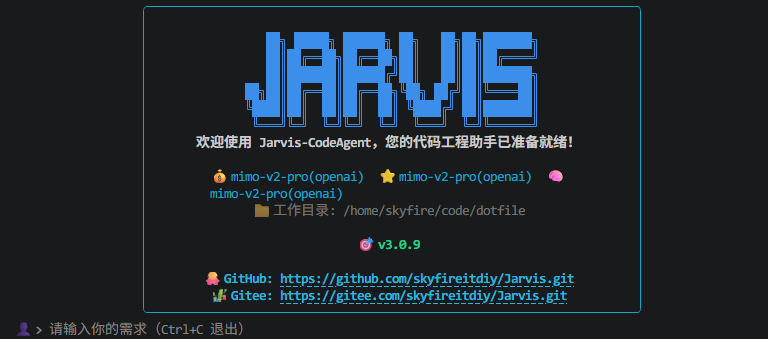
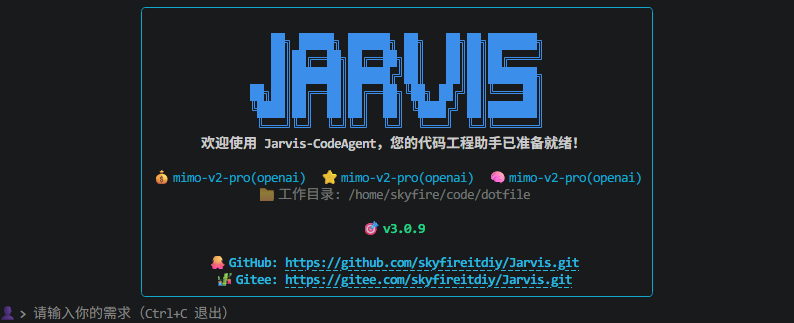
[Jarvis Code Agent提交] docs(landing): 移除过时的示例并更新截图
详细描述：从文档落地页中删除了用户输入示例部分，因为该示例已过时；同时更新了CLI截图以匹配最新界面。

Changed region(s): [[0.0, 0.0, 0.8438, 0.9907], [0.25, 0.0929, 0.75, 0.4644], [0.4375, 0.6811, 0.5625, 0.743]]

diff --git a/docs/landing/index.html b/docs/landing/index.html
@@ -841,15 +841,6 @@
               />
             </div>
             <div class="tl"><br /></div>
-            <div class="tl">
-              <span class="tp">👤 &gt; </span
-              ><span class="to">请输入你的需求（Ctrl+C 退出）</span>
-            </div>
-            <div class="tl">
-              <span class="tp">👤 &gt; </span
-              ><span class="tc">帮我重构这个模块并添加单元测试</span
-              ><span class="cur"></span>
-            </div>
           </div>
         </div>
       </div>
